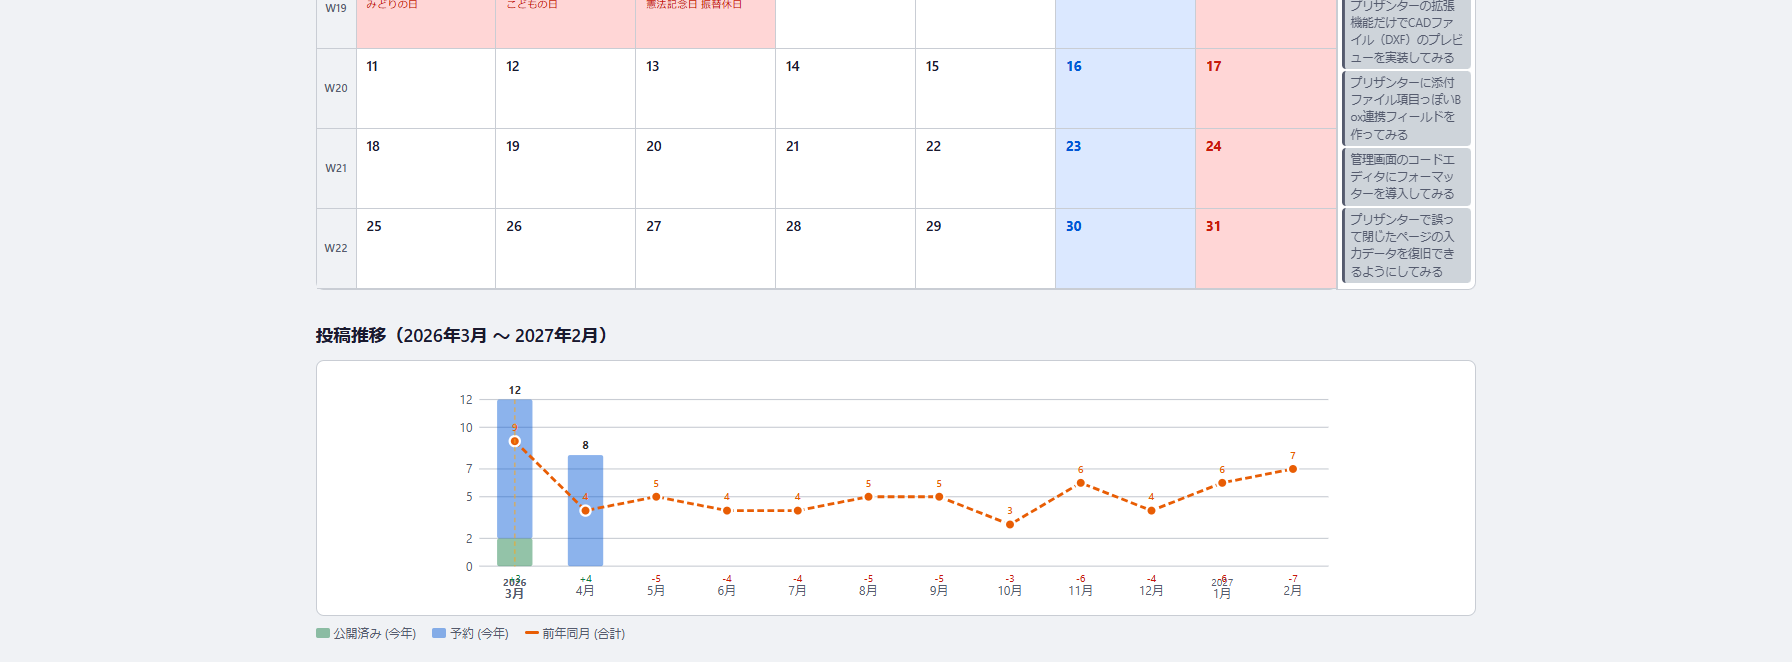
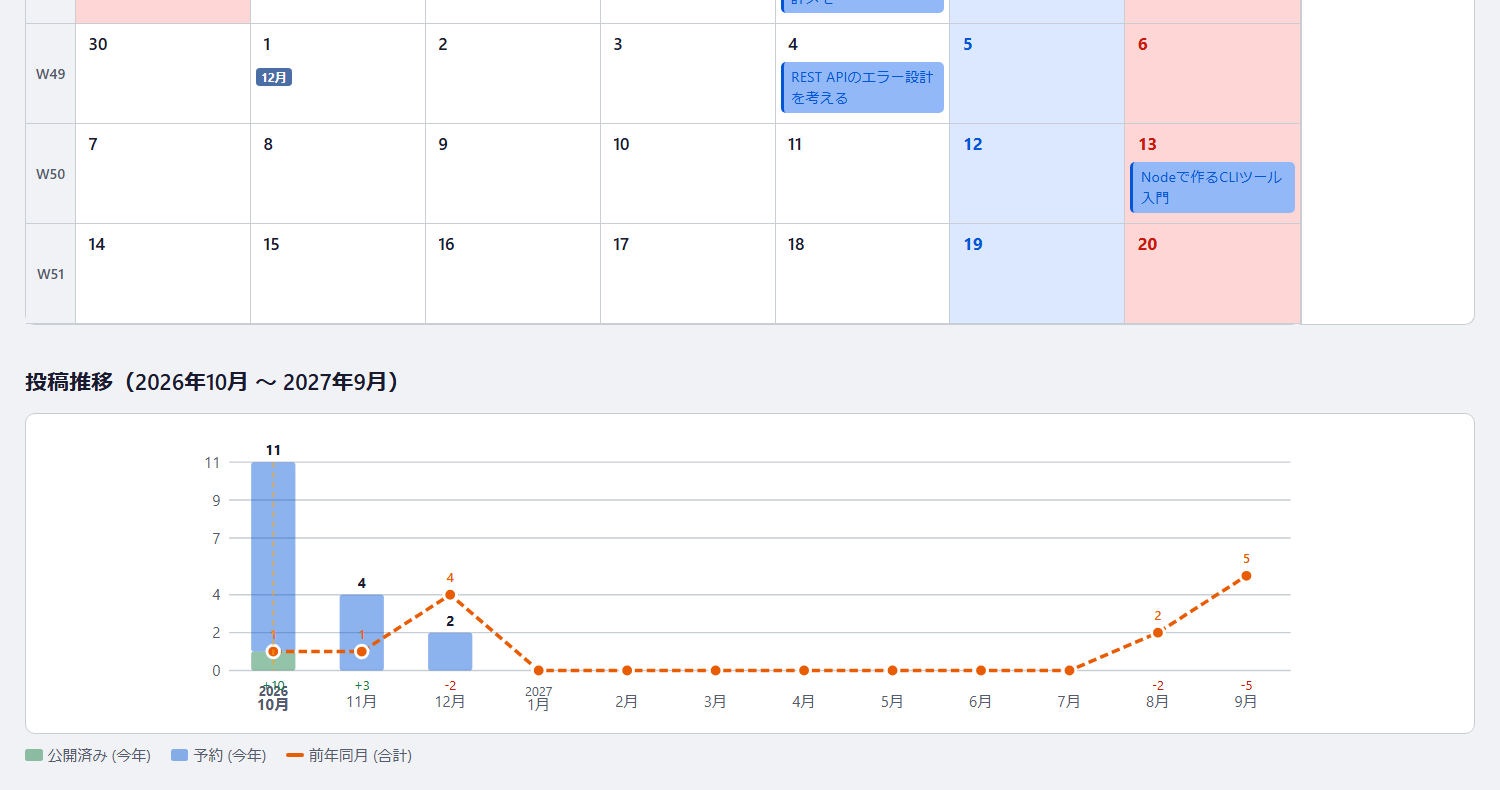
chore: README・スクリーンショット更新、リリースでテスト実行、依存更新
- カレンダーのスクリーンショットを撮り直し、ダーク版を追加
- release.yml で typecheck / test を実行
- prettier を更新

diff --git a/README.md b/README.md
@@ -121,6 +121,9 @@ npm install
 
 VS Code 内にカレンダー UI を表示し、記事の管理・作成・Git 操作をすべて GUI で行えます。  
 ワークスペースに `qiita.config.json` または `public/` ディレクトリが存在すると自動的にアクティブになります。
+マルチルートワークスペースでは、Qiita 記事フォルダごとにカレンダーを開けます。VS Code のテーマ（ライト / ダーク / ハイコントラスト）にも自動で追従します。
+
+![calendar-overview-dark](images/calendar-overview-dark.png)
 
 #### カレンダー表示・ステータス色分け
 
